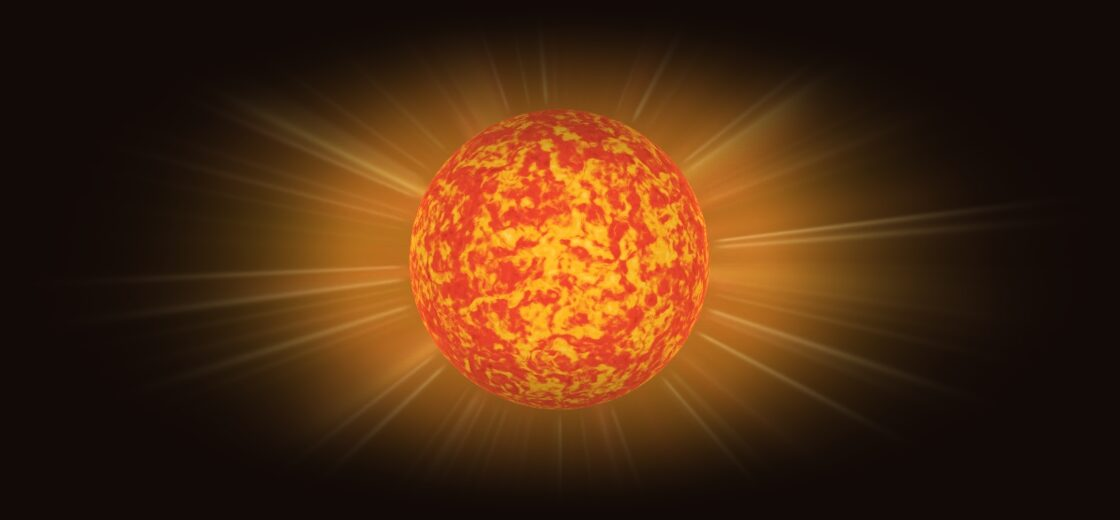
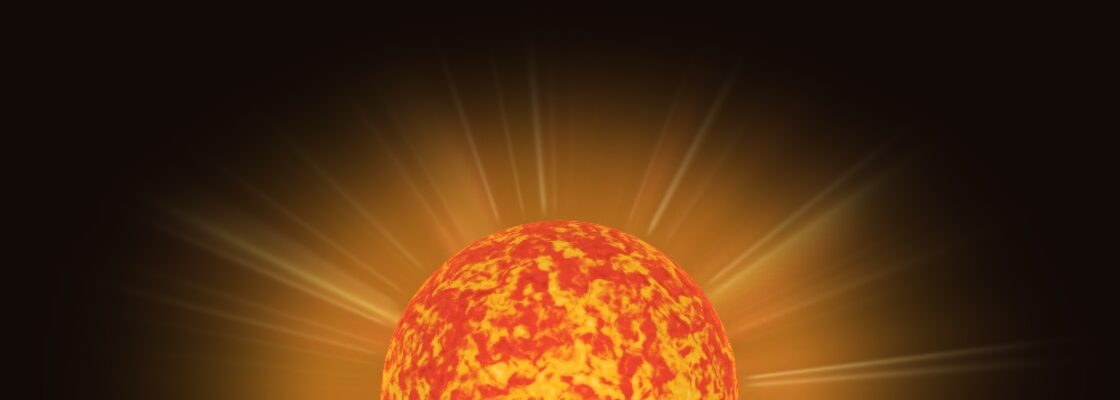
feat: set the email sun behind the card, cut in half

diff --git a/packages/email/src/components/email-base.tsx b/packages/email/src/components/email-base.tsx
@@ -67,7 +67,7 @@ const EmailBase = ({ preview, footer, children }: Props) => (
         <Img
           src="https://taiyo.moe/email/sunrise.jpg"
           width={560}
-          height={260}
+          height={200}
           alt=""
           style={{ display: "block", height: "auto", maxWidth: "100%", width: "100%" }}
         />
